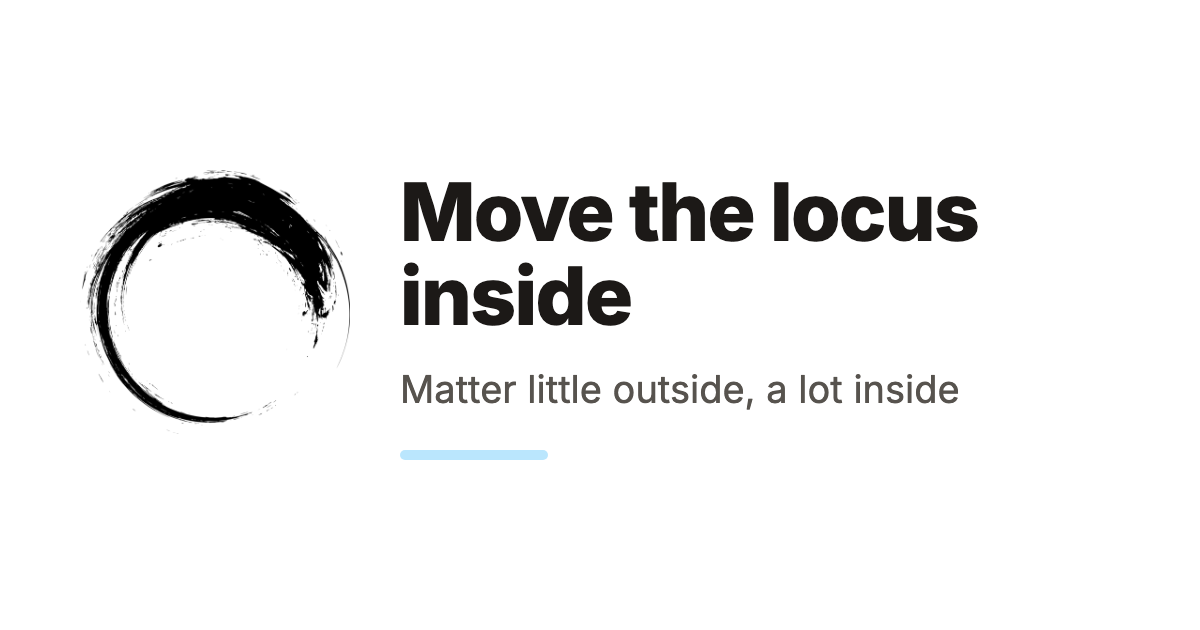
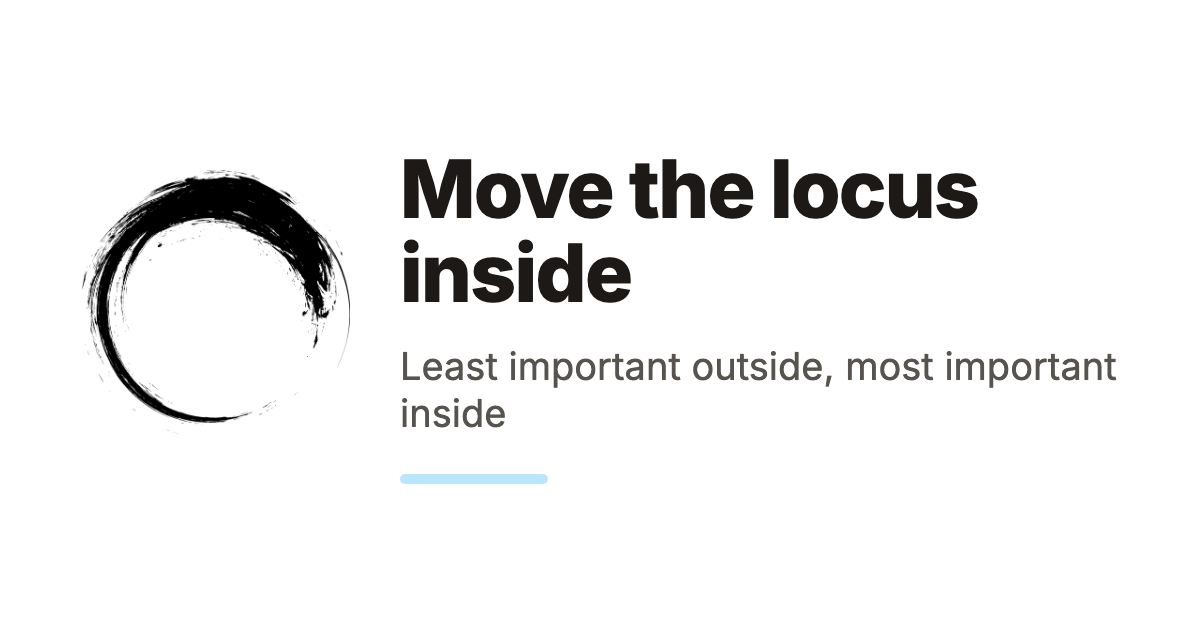
build

Changed region(s): [[0.3392, 0.2413, 0.8325, 0.5127], [0.3083, 0.5429, 0.925, 0.7841]]

diff --git a/ru/locate-control-inside.html b/ru/locate-control-inside.html
@@ -18,8 +18,8 @@
 <title>Локус внутрь | tellothers.com</title>
 <meta property="og:title" content="Локус внутрь" />
 <meta property="og:locale" content="ru_RU" />
-<meta name="description" content="Минимально важен снаружи, максимально — изнутри. Фокус — на чём сосредоточены усилия. Локус — откуда они исходят." />
-<meta property="og:description" content="Минимально важен снаружи, максимально — изнутри. Фокус — на чём сосредоточены усилия. Локус — откуда они исходят." />
+<meta name="description" content="Минимально важен снаружи, максимально — изнутри. Локус контроля — кто хозяин твоей жизни: ты или случай и другие люди. Фокус — на чём сосредоточены усилия." />
+<meta property="og:description" content="Минимально важен снаружи, максимально — изнутри. Локус контроля — кто хозяин твоей жизни: ты или случай и другие люди. Фокус — на чём сосредоточены усилия." />
 <link rel="canonical" href="https://tellothers.com/ru/locate-control-inside" />
 <meta property="og:url" content="https://tellothers.com/ru/locate-control-inside" />
 <meta property="og:site_name" content="tellothers.com" />
@@ -104,17 +104,17 @@
   </header>
 
   <div class="prose prose-stone max-w-none">
-    <p>Фокус — на чём сосредоточены усилия. Локус — откуда они исходят.</p>
+    <p>Локус контроля — кто хозяин твоей жизни: ты или случай и другие люди. Фокус — на чём сосредоточены усилия. Локус — откуда они исходят.</p>
 
-<p>Я до сих пор не осознал этот переход локуса вовнутрь себя. То есть что я в середине своего восприятия — и всё происходит только со мной и вокруг меня.</p>
+<p>Я до сих пор не осознал этот переход локуса вовнутрь себя: я в середине своего восприятия, и всё происходит только со мной и вокруг меня.</p>
 
-<p>Формула: минимально важен снаружи, максимально важен изнутри. Неприхотлив, но разборчив. Не вредишь и не даёшь себя в обиду. Внешняя лёгкость, внутренняя твёрдость — четыре формулировки одной позиции.</p>
+<p>Формула: минимально важен снаружи, максимально важен изнутри. Неприхотлив, но разборчив. Не вредишь и не даёшь себя в обиду. Внешняя лёгкость, внутренняя твёрдость.</p>
 
 <p>Работает только на радости. Пока несущая конструкция — страх, снаружи важен, а внутри пусто: цепляешься за внешнее, потому что внутри нечем стоять. Страх держит через сжатие, радость — через наполненность.</p>
 
 <p>Я без света. Счётчик сняли за неуплату. Байк не заводится. Пофиг, кайфую. Какие сложности?</p>
 
-<p>Одни и те же слова у человека на страхе звучат как поза. У человека на радости — как факт.</p>
+<p>Одни и те же слова на страхе звучат как поза. На радости — как факт.</p>
 
 <p>Перенеси локус внутрь.</p>
 
@@ -134,7 +134,7 @@
   "mainEntityOfPage": "https://tellothers.com/ru/locate-control-inside",
   "image": "https://tellothers.com/images/og/locate-control-inside.ru.png",
   "datePublished": "2026-05-25T12:44:42+07:00",
-  "dateModified": "2026-10-13T15:37:28+07:00",
+  "dateModified": "2026-10-15T15:51:52+07:00",
   "inLanguage": "ru",
   "isPartOf": {
     "@type": "WebSite",

diff --git a/locate-control-inside.html b/locate-control-inside.html
@@ -18,8 +18,8 @@
 <title>Move the locus inside | tellothers.com</title>
 <meta property="og:title" content="Move the locus inside" />
 <meta property="og:locale" content="en_US" />
-<meta name="description" content="Matter little outside, a lot inside. Focus is where your effort points. Locus is where it comes from." />
-<meta property="og:description" content="Matter little outside, a lot inside. Focus is where your effort points. Locus is where it comes from." />
+<meta name="description" content="Least important outside, most important inside. Locus of control: who runs your life — you, or luck and other people. Focus is where your effort points." />
+<meta property="og:description" content="Least important outside, most important inside. Locus of control: who runs your life — you, or luck and other people. Focus is where your effort points." />
 <link rel="canonical" href="https://tellothers.com/locate-control-inside" />
 <meta property="og:url" content="https://tellothers.com/locate-control-inside" />
 <meta property="og:site_name" content="tellothers.com" />
@@ -99,22 +99,22 @@
     </h1>
 
       <p class="text-lg sm:text-xl text-stone-500 leading-snug">
-        Matter little outside, a lot inside
+        Least important outside, most important inside
       </p>
   </header>
 
   <div class="prose prose-stone max-w-none">
-    <p>Focus is where your effort points. Locus is where it comes from.</p>
+    <p>Locus of control: who runs your life — you, or luck and other people. Focus is where your effort points. Locus is where it comes from.</p>
 
-<p>I still haven’t fully absorbed this move of the locus inside. That I am at the center of my perception — and everything happens only to me and around me.</p>
+<p>I still haven’t fully taken in this shift of the locus inside: I’m at the center of my own perception, and everything happens only to me and around me.</p>
 
-<p>The formula: minimally important on the outside, maximally important on the inside. Unfussy but selective. Do no harm and don’t let yourself be pushed around. Outer lightness, inner firmness — four wordings of one position.</p>
+<p>The formula: least important outside, most important inside. Low-maintenance, but choosy. Do no harm and don’t let yourself be pushed around. Outer lightness, inner firmness.</p>
 
-<p>It only works on joy. While the load-bearing structure is fear, you matter outside and stand empty inside: you cling to the external because there’s nothing inside to stand on. Fear holds through compression, joy — through fullness.</p>
+<p>It only works on joy. While fear is the load-bearing wall, you’re big on the outside and hollow inside: you cling to the outside because there’s nothing inside to stand on. Fear holds by squeezing, joy by filling.</p>
 
-<p>Power’s out — they pulled the meter for an unpaid bill. The bike won’t start. Don’t care, I’m loving it. What problems?</p>
+<p>Power’s out — they pulled the meter over an unpaid bill. The bike won’t start. Whatever, I’m loving it. What problem?</p>
 
-<p>The same words from a person running on fear sound like a pose. From a person running on joy — like a fact.</p>
+<p>On fear, the same words sound like a pose. On joy, like a fact.</p>
 
 <p>Move the locus inside.</p>
 
@@ -129,12 +129,12 @@
   "@type": "Article",
   "name": "Move the locus inside",
   "headline": "Move the locus inside",
-  "description": "Matter little outside, a lot inside",
+  "description": "Least important outside, most important inside",
   "url": "https://tellothers.com/locate-control-inside",
   "mainEntityOfPage": "https://tellothers.com/locate-control-inside",
   "image": "https://tellothers.com/images/og/locate-control-inside.en.png",
   "datePublished": "2026-05-25T12:44:42+07:00",
-  "dateModified": "2026-10-13T15:37:28+07:00",
+  "dateModified": "2026-10-15T15:51:52+07:00",
   "inLanguage": "en",
   "isPartOf": {
     "@type": "WebSite",

diff --git a/index.html b/index.html
@@ -25,7 +25,7 @@
 <meta property="og:site_name" content="tellothers.com" />
 <meta property="og:image" content="https://tellothers.com/images/og-en.png" />
 <meta property="og:type" content="article" />
-<meta property="article:published_time" content="2026-10-13T22:51:05-07:00" />
+<meta property="article:published_time" content="2026-10-15T01:52:02-07:00" />
 <meta name="twitter:card" content="summary_large_image" />
 <meta property="twitter:image" content="https://tellothers.com/images/og-en.png" />
 <meta property="twitter:title" content="It worked? Tell others." />
@@ -385,7 +385,7 @@
 
     <a href="/locate-control-inside" class="group block no-underline rounded-lg hover:bg-white p-4 transition-all duration-700 ease-out hover:shadow-lg hover:shadow-stone-900/5">
   <div class="font-sans font-bold text-stone-800 group-hover:text-stone-950 transition duration-700">Move the locus inside</div>
-    <div class="mt-1 text-sm text-stone-600 leading-snug transition duration-700">Matter little outside, a lot inside</div>
+    <div class="mt-1 text-sm text-stone-600 leading-snug transition duration-700">Least important outside, most important inside</div>
 </a>
 
 

diff --git a/think-forward.html b/think-forward.html
@@ -153,7 +153,7 @@
       <div class="grid sm:grid-cols-2 gap-3 -mx-4">
             <a href="/locate-control-inside" class="group block no-underline rounded-lg hover:bg-white p-4 transition-all duration-700 ease-out hover:shadow-lg hover:shadow-stone-900/5">
   <div class="font-sans font-bold text-stone-800 group-hover:text-stone-950 transition duration-700">Move the locus inside</div>
-    <div class="mt-1 text-sm text-stone-600 leading-snug transition duration-700">Matter little outside, a lot inside</div>
+    <div class="mt-1 text-sm text-stone-600 leading-snug transition duration-700">Least important outside, most important inside</div>
 </a>
 
             <a href="/write" class="group block no-underline rounded-lg hover:bg-white p-4 transition-all duration-700 ease-out hover:shadow-lg hover:shadow-stone-900/5">

diff --git a/mine-joy.html b/mine-joy.html
@@ -214,7 +214,7 @@
 
             <a href="/locate-control-inside" class="group block no-underline rounded-lg hover:bg-white p-4 transition-all duration-700 ease-out hover:shadow-lg hover:shadow-stone-900/5">
   <div class="font-sans font-bold text-stone-800 group-hover:text-stone-950 transition duration-700">Move the locus inside</div>
-    <div class="mt-1 text-sm text-stone-600 leading-snug transition duration-700">Matter little outside, a lot inside</div>
+    <div class="mt-1 text-sm text-stone-600 leading-snug transition duration-700">Least important outside, most important inside</div>
 </a>
 
             <a href="/for-real" class="group block no-underline rounded-lg hover:bg-white p-4 transition-all duration-700 ease-out hover:shadow-lg hover:shadow-stone-900/5">

diff --git a/best-world.html b/best-world.html
@@ -184,7 +184,7 @@
 
             <a href="/locate-control-inside" class="group block no-underline rounded-lg hover:bg-white p-4 transition-all duration-700 ease-out hover:shadow-lg hover:shadow-stone-900/5">
   <div class="font-sans font-bold text-stone-800 group-hover:text-stone-950 transition duration-700">Move the locus inside</div>
-    <div class="mt-1 text-sm text-stone-600 leading-snug transition duration-700">Matter little outside, a lot inside</div>
+    <div class="mt-1 text-sm text-stone-600 leading-snug transition duration-700">Least important outside, most important inside</div>
 </a>
 
       </div>

diff --git a/ru/index.html b/ru/index.html
@@ -25,7 +25,7 @@
 <meta property="og:site_name" content="tellothers.com" />
 <meta property="og:image" content="https://tellothers.com/images/og-ru.png" />
 <meta property="og:type" content="article" />
-<meta property="article:published_time" content="2026-10-13T22:51:05-07:00" />
+<meta property="article:published_time" content="2026-10-15T01:52:02-07:00" />
 <meta name="twitter:card" content="summary_large_image" />
 <meta property="twitter:image" content="https://tellothers.com/images/og-ru.png" />
 <meta property="twitter:title" content="Сработало? Скажи другим." />

diff --git a/404.html b/404.html
@@ -25,7 +25,7 @@
 <meta property="og:site_name" content="tellothers.com" />
 <meta property="og:image" content="https://tellothers.com/images/og-en.png" />
 <meta property="og:type" content="article" />
-<meta property="article:published_time" content="2026-10-13T22:51:05-07:00" />
+<meta property="article:published_time" content="2026-10-15T01:52:02-07:00" />
 <meta name="twitter:card" content="summary_large_image" />
 <meta property="twitter:image" content="https://tellothers.com/images/og-en.png" />
 <meta property="twitter:title" content="404" />

diff --git a/500.html b/500.html
@@ -25,7 +25,7 @@
 <meta property="og:site_name" content="tellothers.com" />
 <meta property="og:image" content="https://tellothers.com/images/og-en.png" />
 <meta property="og:type" content="article" />
-<meta property="article:published_time" content="2026-10-13T22:51:05-07:00" />
+<meta property="article:published_time" content="2026-10-15T01:52:02-07:00" />
 <meta name="twitter:card" content="summary_large_image" />
 <meta property="twitter:image" content="https://tellothers.com/images/og-en.png" />
 <meta property="twitter:title" content="500" />
